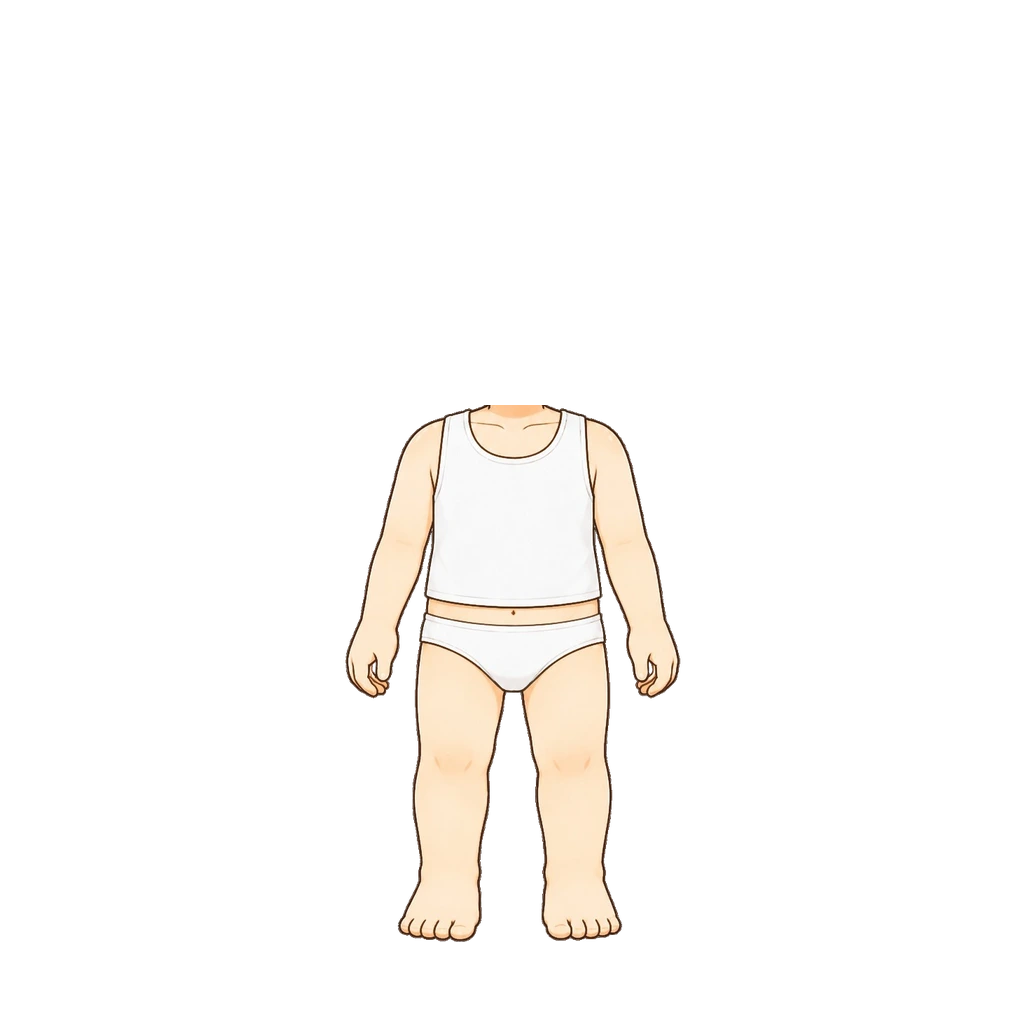
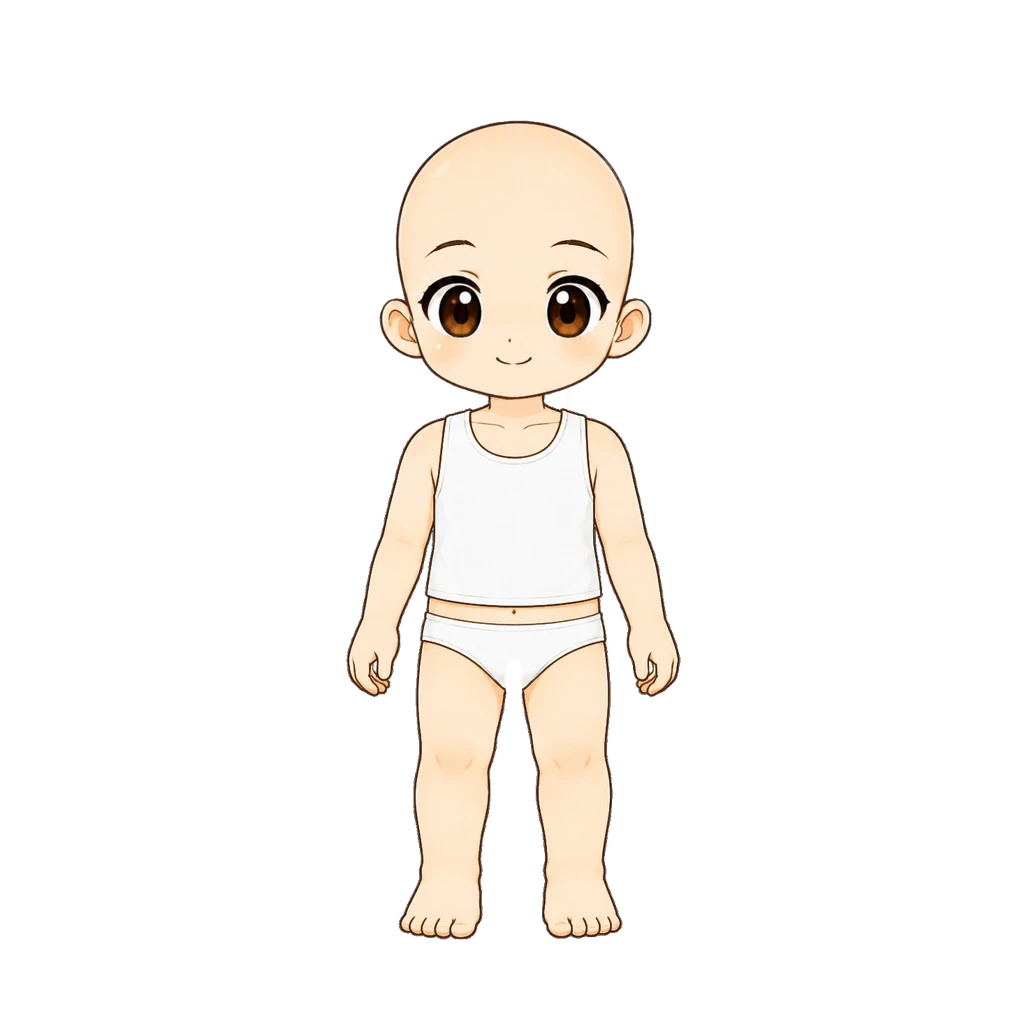
남아 기본 아바타 v10: 민머리 몸 + 머리카락 머리 (#743)
* 해적 신발 크기·위치 재조정 (베이스 다리 비율에 맞춤)

- 해적 남아 원화와 비교해 베이스가 다리가 짧고 가늘어서, 신발 높이를 112로
  줄이고 윗선을 y827에 맞춤(발바닥 y939)
- 왼짝·오른짝을 따로 배치해 발별로 미세 조정할 수 있게 함
- 같은 파일명이라 경로에 ?v=2

Claude-Session: https://claude.ai/code/session_018maNuYqDfFyRSe9uKpZhPR

* 오늘의 발견을 수첩에 붙인 메모지 디자인으로 변경

- 크림색 종이 질감 + 연두 마스킹테이프, 테두리 없이 그림자·거친 가장자리로만 표현
- 수첩보다 살짝 좁게, '오늘의 발견'은 작게 · 발견 내용은 진한 갈색으로 크게
- 도감 버튼을 오른쪽 작은 알약 버튼(도감 N개 ›)으로
- '탐험일지' 머리말 아래 · 수첩 바로 위로 이동
- App.jsx에서 DiscoveryMemo 컴포넌트로 분리

Claude-Session: https://claude.ai/code/session_018maNuYqDfFyRSe9uKpZhPR

* 오늘의 발견 메모지: 글씨 줄이고 테이프를 왼쪽 위 모서리 대각선으로

- 발견 내용 16.5 → 14 (폰에서 짧은 힌트도 두 줄로 꺾이던 문제), 머리말·도감 버튼·아이콘도 한 단계씩
- 위쪽 가운데 테이프가 '탐험일지' 머리말 줄과 겹쳐 보여 왼쪽 위 모서리에 대각선으로

Claude-Session: https://claude.ai/code/session_018maNuYqDfFyRSe9uKpZhPR

* 오늘의 발견 메모지: 힌트 날의 발자국 아이콘 제거

발자국 자리만큼 힌트가 한 줄에 더 들어가게 함. 찾은 날의 발견 이모지는 유지.

Claude-Session: https://claude.ai/code/session_018maNuYqDfFyRSe9uKpZhPR

* 남아 아바타 기본 몸체 새 버전으로 교체

사용자 제공 원화(갈색 짧은 머리)로 body.webp 업데이트.
버전을 v8 → v9로 올려 기존 기기 캐시 무효화.
art-src/body-boy-src.webp에 원본 보관 (webp q92).

Claude-Session: https://claude.ai/code/session_018maNuYqDfFyRSe9uKpZhPR

* 남아 베이스 v9 탑재 바로잡기 (머리 겹침·비율 깨짐 수정)

직전 커밋은 원화(머리 포함 전신)를 1024×1024로 통째로 늘려 body.webp에 넣어
베이스 머리가 그 위에 또 그려지고 몸 비율도 깨졌다. v8과 같은 공식으로 다시 탑재:
- 알파 상자를 v8 자리(y89~942, 가로 중심 512)에 맞춤 — 실루엣 IoU 0.976이라 장비 재조정 불필요
- y405에서 가로로 잘라 head/body, 합본 default까지 3장 교체, 경로 ?v=9
- art-src: base-v9-boy-src.webp로 이름 정리, 규칙 6에 따라 base-v8-boy-src 삭제
[…]

diff --git a/src/data/avatarEquipment.js b/src/data/avatarEquipment.js
@@ -41,7 +41,7 @@ export const DEFAULT_CHAR_DISPLAY_MODE = CHAR_DISPLAY_GROWTH;
    꾸미기 전용 캐릭터 1장. 모자·안경·손지물 없이 맨몸(기본옷)으로 제작된
    1024×1024 이미지. 모든 장비는 이 위에 덧씌워진다.
    아트가 아직 없으면 뷰어가 성장 3단계 캐릭터 → 이모지 순으로 폴백한다. */
-export const AVATAR_BASE_IMG   = "assets/avatar/base/default.webp?v=9";        // 남아(머리+몸통 합본 — 폴백용)
+export const AVATAR_BASE_IMG   = "assets/avatar/base/default.webp?v=10";        // 남아(머리+몸통 합본 — 폴백용)
 export const AVATAR_BASE_IMG_GIRL = "assets/avatar/base/default-girl.webp?v=8"; // 여아(합본 — 폴백용)
 /* 베이스를 '몸통'과 '머리' 두 장으로 나눠 둔다 (사용자 확정).
    모자처럼 얼굴째 덮는 장비(hidesHead)를 쓰면 머리 장을 아예 안 그리고 그 자리에 장비 그림만 얹는다.
@@ -60,9 +60,17 @@ export const AVATAR_BASE_IMG_GIRL = "assets/avatar/base/default-girl.webp?v=8"; 
    (남 630 · 여 578 그대로 맞았다 — 겹쳐서 확인함) 위 탑재 공식을 그대로 재사용했다.
    파일명은 그대로 덮어썼고 경로에 ?v=8 을 붙여 기존 기기의 캐시를 끊는다.
    [2026-10-02] 남아만 베이스 v9 (사용자 원화 — v8 을 다듬은 판). v8 과 같은 자리·높이에 맞추면
-   실루엣이 97.6% 겹쳐 장비를 다시 맞출 필요가 없다. 머리/몸통은 v8 과 같은 y405 에서 잘랐다. */
-export const AVATAR_BASE_BODY_IMG      = "assets/avatar/base/body.webp?v=9";
-export const AVATAR_BASE_HEAD_IMG      = "assets/avatar/base/head.webp?v=9";
+   실루엣이 97.6% 겹쳐 장비를 다시 맞출 필요가 없다. 머리/몸통은 v8 과 같은 y405 에서 잘랐다.
+   [2026-10-02] 남아 베이스 v10 — **민머리 + 머리카락 머리** (사용자 확정). 모자를 쓸 때 머리카락이
+   모자 밖으로 삐져나오지 않게 하려는 구조다.
+     · body.webp = 민머리 몸 전체(머리째, 속옷 차림). 목에서 자르지 않고 맨 아래에 깐다.
+     · head.webp = 머리카락 머리. 평소에는 민머리 위에 얹혀 이 모습만 보인다.
+     · 얼굴째 덮는 모자(hidesHead)를 쓰면 head.webp 만 빠지고 민머리 위에 모자 그림이 얹힌다
+       → 남아 모자는 앞으로 얼굴까지 통째로 그려 hidesHead 를 붙인다.
+     · 속옷은 기본 반팔티·반바지(starter, 벗을 수 없음)가 늘 가린다.
+   보일 모습(민머리+머리카락)이 v9 와 98.9% 겹쳐 기존 옷·장비는 그대로 맞는다. */
+export const AVATAR_BASE_BODY_IMG      = "assets/avatar/base/body.webp?v=10";
+export const AVATAR_BASE_HEAD_IMG      = "assets/avatar/base/head.webp?v=10";
 export const AVATAR_BASE_BODY_IMG_GIRL = "assets/avatar/base/body-girl.webp?v=8";
 export const AVATAR_BASE_HEAD_IMG_GIRL = "assets/avatar/base/head-girl.webp?v=8";
 export const AVATAR_BASE_EMOJI = "🧒";

diff --git a/src/components/AvatarViewer.jsx b/src/components/AvatarViewer.jsx
@@ -32,6 +32,8 @@ import {
      머리 위에 덮어 씌우면 크기가 조금만 어긋나도 턱선·귀선이 겹쳐 보였다.
      [중요] 머리는 그 모자 그림이 '실제로 로드된 뒤에만' 숨긴다. 바로 숨기면 처음
      구매·장착하는 순간(이미지가 아직 안 받아진 상태) 머리 없는 아이가 잠깐 보인다.
+     [2026-10-02] 남아는 몸통 장이 민머리를 머리째 담고 있다 — 머리 장(머리카락)을 숨기면
+     민머리 위에 모자 그림이 얹혀, 모자 밖으로 머리카락이 삐져나오지 않는다.
 
    props
      equipped    : { [slot]: itemId | null }

diff --git a/art-src/README.md b/art-src/README.md
@@ -470,7 +470,8 @@ getBoundingClientRect로 재서 정한다. 2026-08-05 점검에서 이 기준을
 | bg-island-v1-src.webp | 꾸미기 배경 '보물섬' 원화 v1 (869×1810 = 1:2.083 — 무대 칸 1:2.09 와 사실상 같아 잘리는 데가 없다). 가운데로 난 모랫길 끝에 바위섬과 폭포, 그 아래 동굴 안에서 보물상자가 빛난다. 야자수·에메랄드빛 바다·구름·오른쪽 아래 조개. 그림이 장식으로 넣던 것을 대부분 그려서(🏝 🌴 💰 🐚) deco 는 그림에 없는 것만 남겼다: 🗺 🏴☠ ⚓ 🦀. tint 골드 0.30 → 연한 파랑 0.10(위쪽이 밝은 하늘색이라 골드를 덮으면 탁해진다 — 공룡 섬과 같은 판단). darkStage 는 끔 — 위쪽이 밝은 하늘이라 크림색 문구가 안 읽힌다. 원화 없는 bakery(푸딩 섬)에만 남겼다. 받은 그대로 톤 보정 없음. art-src 는 q92(144KB), 배포본은 q80(56KB) | stage-bg-island.webp |
 | bg-forest-v4-src.webp | 꾸미기 배경 '마법 숲' 원화 v4 (872×1804 = 1:2.069 — v3와 같은 크기, 무대 칸 1:2.09 와 거의 같아 좌우가 아주 조금 잘린다). v3와 구도·소품이 같다 — 연보라·연분홍 파스텔 숲, 가운데 빛나는 아치문이 난 큰 나무, 그 왼쪽에 하얀 사슴, 위쪽에 빛나는 나비, 좌우 가장자리에 액자처럼 선 큰 나무 두 그루, 앞쪽에 보라 수정·빛나는 버섯, 가운데로 난 밝은 크림빛 길. 달라진 건 채색이다 — v3의 진한 색을 수채화처럼 옅게 풀어 전체가 부드러워졌고, 잎·풀의 잔결이 줄면서 큰 색면 위주가 됐다. 그 덕에 압축이 잘 먹어 배포본이 121KB → 87KB. tint 연보라 rgba(200,180,245,0.10) · darkStage 끔 — v3 그대로다(위쪽이 밝은 분홍·연보라라 크림색 문구가 안 읽힌다). deco 목록도 손대지 않았다 — 장식 이모지를 화면에서 통째로 꺼 둔 상태(SHOW_BG_DECO_EMOJI)라 눈으로 맞춰 볼 수 없어서, 다시 켤 때 그림 보고 고른다. 받은 그대로 톤 보정 없음. art-src 는 q92(206KB), 배포본은 q80(87KB) | stage-bg-forest.webp |
 | base-v8-girl-src.webp | **아바타 베이스 v8 — 머리+몸통 한 장 (사용자가 v7 디자인만 다듬어 다시 그려 줌, 2026-09-27 탑재)**. 723×1536, v7과 원화 캔버스·알파 상자·목선 y가 거의 같다(남 630·여 578 그대로 맞았다 — 겹쳐서 확인함). 남아는 앞머리, 여아는 갈래머리 모양이 달라졌다. **탑재는 v7과 같은 공식** — 알파 상자 높이를 848로 줄여 발끝 y940·가로 중심 x512, 목선에서 머리/몸통을 가로로 자른다. 결과 상자 남 (340,89)-(684,942) / 여 (343,89)-(682,941) — v7과 같은 화면 자리라 아바타 크기가 안 바뀐다. 경로에 ?v=8 을 붙여 기존 기기의 캐시를 끊었다 | avatar/base/body(-girl)·head(-girl)·default(-girl).webp (?v=8) — **남아는 v9 로 교체됨(아래 행)** |
-| base-v9-boy-src.webp | **아바타 베이스 v9 남아 — 머리+몸통 한 장 (사용자 원화 2026-10-02)**. 488×1220, 투명 배경. v8 남아를 다듬어 다시 그린 판이라 알파 상자를 v8 탑재본과 같은 높이(y89~942, 853px)·가로 중심 512 로 맞추면 실루엣이 **IoU 0.976** 으로 겹친다(줄마다 좌우 끝 차이 0~5px). 그래서 모자·옷·신발을 다시 맞출 필요가 없다. 배율 **0.7003** → 상자 (342,89)-(683,942). **머리/몸통은 v8 과 똑같이 y405 에서 가로로 자른다**(v8 탑재본이 head 404행까지·body 405행부터 — 실측). 한 그림에서 잘라 목 이음매가 없다. 머리·몸통·합본 3장을 다 바꿨고 경로에 ?v=9. ※ 처음엔 이 그림을 1024×1024 로 통째로 늘려 body.webp 에 넣어(머리 포함·가로세로 비율 깨짐) 베이스 머리가 그 위에 또 그려지는 사고가 있었다 — main 에 들어가기 전에 바로잡았다 | avatar/base/body·head·default.webp (?v=9) |
+| base-v10-boy-bald-src.webp | **아바타 베이스 v10 남아 — 민머리 몸 한 장 (사용자 원화 2026-10-02)**. 483×1173, 투명 배경, 속옷 차림. 모자를 쓸 때 머리카락이 모자 밖으로 삐져나오지 않게 하려고 사용자가 민머리로 따로 그렸다. **목에서 자르지 않고 머리째 base/body.webp 로 맨 아래에 깐다.** 아래 머리카락 머리를 얼굴(눈~입) 템플릿 매칭으로 얹은(배율 1.004 · 일치 0.967) 합본을 v9 탑재본 실루엣에 맞췄다 — 합본 알파 상자 높이 850 · (342,89) · 배율 0.6979, 겹침 IoU 0.989 라 기본옷·기존 장비를 다시 맞출 필요가 없다. 민머리 탑재 상자 (344,118)-(683,942) | avatar/base/body.webp · default.webp |
+| base-v10-boy-hair-src.webp | **아바타 베이스 v10 남아 — 머리카락 머리 (사용자 원화 2026-10-02)**. 487×446, **흰 불투명 배경**(알파 없음)으로 받았다 → 가장자리에서 4-연결로 이어진 흰색(최솟값>232·채도<18)만 지우고 경계 1px은 흰 정도로 반투명 처리. 위 민머리와 같은 변환으로 얹어 base/head.webp — 탑재 상자 (340,87)-(686,403). 평소에는 이 머리가 민머리 위에 보이고, 얼굴째 덮는 모자(hidesHead)를 쓰면 이 장만 빠지고 민머리 위에 모자 그림이 얹힌다 | avatar/base/head.webp · default.webp |
 | starter-tee-src.webp | **기본 반팔티 (사용자 원화 2026-08-15, 2026-08-19 탑재)** — 흰 반팔. **807**×1536 (베이스보다 넓은 캔버스) · 알파 상자 x70~733·y410~990 · 가로 중심 **401.5**. 몸보다 크게 그려져 있어 탑재 시 중심을 401.5→355 로 옮기고 줄인다. 배치는 아래 표 참고 — **남녀 값이 다르다**. 상의 슬롯 **기본 지급 아이템**(top_tee_white · 값 0 · 못 벗음) | avatar/top/starter-tee(-girl).webp |
 | base-v6-body-dressed-src.webp | **옷 입은 몸통 원화 (사용자 원화 2026-08-16)** — 흰 반팔·초록 반바지·흰 양말을 입은 목 아래 몸통 한 장. 260×543, 배경 불투명으로 받아 가장자리 플러드필로 배경만 지웠다(셔츠도 흰색이라 전역 흰색 제거는 못 쓴다). 탑재: 배율 **1.10497** 로 키워 목을 y340·발바닥을 y940 에 맞추고 가로 중심을 512 에 뒀다 → 1024 캔버스 x369~656(폭 287) · y340~940. 기존 몸통(폭 277)보다 10px 넓다. **베이스 몸통 4장을 이걸로 교체했다** — 몸통 2장(남녀 공용 같은 그림) + 합본 2장(몸통+머리). 머리 그림(head/head-girl)은 그대로다 | avatar/base/body.webp · body-girl.webp · default.webp · default-girl.webp |
 | starter-shorts-src.webp | **기본 반바지 (사용자 원화 2026-08-15, 2026-08-19 탑재)** — 초록 반바지. **807**×1536 · 알파 상자 x160~644·y654~964 · 가로 중심 **401.5**. 원화가 몸보다 가로로 넓고 세로로 짧아 **균등 배율로는 못 맞춘다** — 균등하게 맞추면 속옷이 비치거나 옆이 튀어나와서 폭(sx)과 길이(sy)를 따로 잡았다. 배치는 아래 표 참고 — **남녀 값이 다르다**. 하의 슬롯 **기본 지급 아이템**(bottom_shorts_green · 값 0 · 못 벗음) | avatar/bottom/starter-shorts(-girl).webp |
